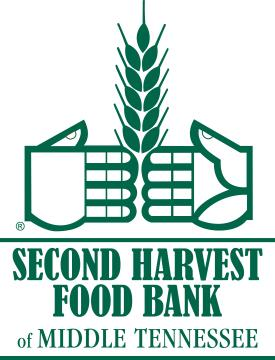
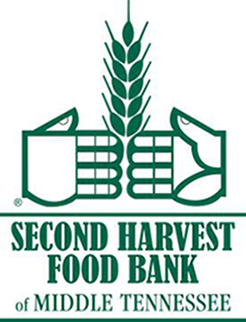
put in content intot the food and st. thomas medical group and the css.  Also resized phtos

diff --git a/index.html b/index.html
@@ -176,7 +176,7 @@
     <div class="large-6 medium-6 small-6 columns">
         <img src="images/2ndharvest.jpg"><img src="images/nashvillefood.jpg">
         <h4 class="food">Food</h4>
-        <p>We need food in order to survie. Attached is a couple places that are understand your needs. We need food in order to survie. Attached is a couple places that are understand your needs. We need food in order to survie. Attached is a couple places that are understand your needs. We need food in order to survie. Attached is a couple places that are understand your needs.</p>
+        <p>We need food in order to survive.  We have food shelters in Nashville that need help. Visit <a hef="https://secondharvestmidtn.org/">2nd Harvest Food Bank</a>for more information.  Visit <a href="http://www.thenashvillefoodproject.org/">Nashville Food Project</a> for more information.</p>
     </div>
     </div>
     </div>
